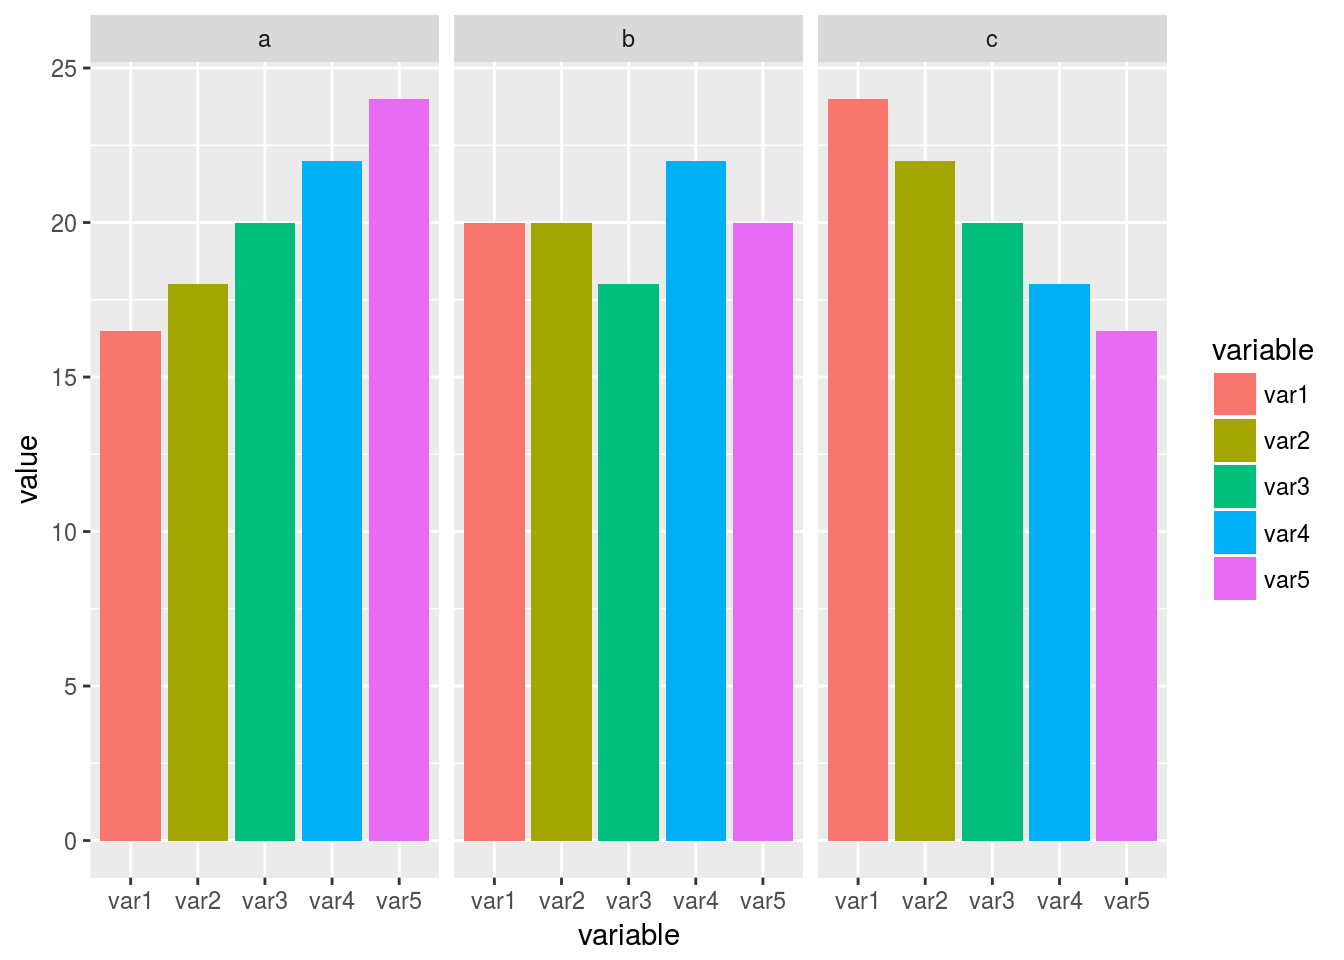
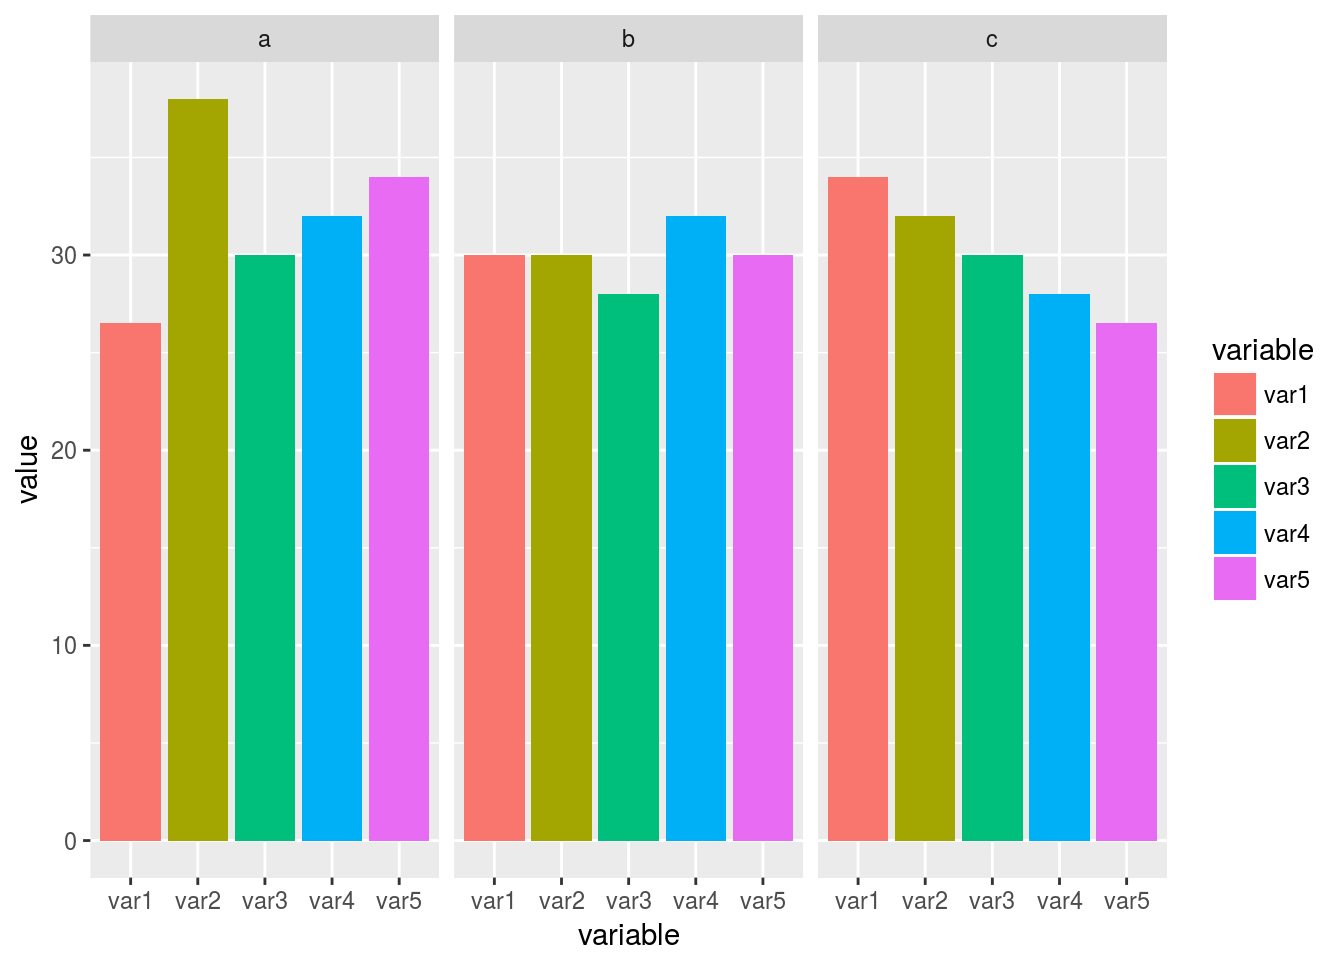
more on pie charts

diff --git a/_book/graphs.html b/_book/graphs.html
@@ -105,6 +105,7 @@ code > span.in { color: #60a0b0; font-weight: bold; font-style: italic; } /* Inf
 <li class="divider"></li>
 <li class="chapter" data-level="" data-path="index.html"><a href="index.html"><i class="fa fa-check"></i>Preface</a><ul>
 <li class="chapter" data-level="" data-path="index.html"><a href="index.html#what-is-r"><i class="fa fa-check"></i>What is R?</a></li>
+<li><a href="index.html#why-modern-r">Why <em>modern</em> R?</a></li>
 <li class="chapter" data-level="" data-path="index.html"><a href="index.html#what-is-rstudio"><i class="fa fa-check"></i>What is Rstudio?</a></li>
 <li class="chapter" data-level="" data-path="index.html"><a href="index.html#prerequisites"><i class="fa fa-check"></i>Prerequisites</a></li>
 <li class="chapter" data-level="" data-path="index.html"><a href="index.html#what-are-packages"><i class="fa fa-check"></i>What are packages?</a><ul>
@@ -312,9 +313,9 @@ unemp_lux_data <span class="op">%&gt;%</span>
 <p>I am not a huge fan of pie charts, but sometimes this is what you have to do. So let’s see how you can create pie charts. First, let’s create a mock dataset with the function <code>tibble::tribble()</code> which allows you to create a dataset line by line:</p>
 <div class="sourceCode"><pre class="sourceCode r"><code class="sourceCode r">test_data &lt;-<span class="st"> </span><span class="kw">tribble</span>(
   <span class="op">~</span>id, <span class="op">~</span>var1, <span class="op">~</span>var2,  <span class="op">~</span>var3, <span class="op">~</span>var4, <span class="op">~</span>var5,
-  <span class="st">&quot;a&quot;</span>, <span class="fl">16.5</span>, <span class="dv">18</span>, <span class="dv">20</span>, <span class="dv">22</span>, <span class="dv">24</span>,
-  <span class="st">&quot;b&quot;</span>, <span class="dv">20</span>, <span class="dv">20</span>, <span class="dv">18</span>, <span class="dv">22</span>, <span class="dv">20</span>,
-  <span class="st">&quot;c&quot;</span>, <span class="dv">24</span>, <span class="dv">22</span>, <span class="dv">20</span>, <span class="dv">18</span>, <span class="fl">16.5</span>
+  <span class="st">&quot;a&quot;</span>, <span class="fl">26.5</span>, <span class="dv">38</span>, <span class="dv">30</span>, <span class="dv">32</span>, <span class="dv">34</span>,
+  <span class="st">&quot;b&quot;</span>, <span class="dv">30</span>, <span class="dv">30</span>, <span class="dv">28</span>, <span class="dv">32</span>, <span class="dv">30</span>,
+  <span class="st">&quot;c&quot;</span>, <span class="dv">34</span>, <span class="dv">32</span>, <span class="dv">30</span>, <span class="dv">28</span>, <span class="fl">26.5</span>
 )</code></pre></div>
 <p>This data is not in the right format though, which is wide. We need to have it in the long format for it to work with <code>ggplot2</code>. For this, let’s use <code>tidyr::gather()</code> as seen in the previous chapter:</p>
 <div class="sourceCode"><pre class="sourceCode r"><code class="sourceCode r">test_data_long =<span class="st"> </span>test_data <span class="op">%&gt;%</span>
@@ -325,15 +326,57 @@ unemp_lux_data <span class="op">%&gt;%</span>
 <span class="st">  </span><span class="kw">geom_bar</span>(<span class="kw">aes</span>(variable, value, <span class="dt">fill =</span> variable), <span class="dt">stat =</span> <span class="st">&quot;identity&quot;</span>)</code></pre></div>
 <p><img src="modern_r_for_statec_files/figure-html/unnamed-chunk-121-1.png" width="672" /></p>
 <p>In the code above, I introduce a new option, called <code>stat = &quot;identity&quot;</code>. By default, <code>geom_bar()</code> counts the number of observations of each category that is plotted, which is a statistical transformation. By adding <code>stat = &quot;identity&quot;</code>, I force the statistical transformation to be the identity function, and thus plot the data as is.</p>
-<p>To create the pie chart, it is enough to add the option <code>coord_polar()</code> at the end of the code: this is because a pie chart can be seen as a barplot living in a world with polar coordinates:</p>
+<p>To create the pie chart, first we need to compute the share of each <code>id</code> to <code>var1</code>, <code>var2</code>, etc…</p>
+<p>To do this, we first group by <code>id</code>, then compute the total. Then we use a new function <code>ungroup()</code>. After using <code>ungroup()</code> all the computations are done on the whole dataset instead of by group, which is what we need to compute the share:</p>
+<div class="sourceCode"><pre class="sourceCode r"><code class="sourceCode r">test_data_long =<span class="st"> </span>test_data_long <span class="op">%&gt;%</span>
+<span class="st">  </span><span class="kw">group_by</span>(id) <span class="op">%&gt;%</span>
+<span class="st">  </span><span class="kw">mutate</span>(<span class="dt">total =</span> <span class="kw">sum</span>(value)) <span class="op">%&gt;%</span>
+<span class="st">  </span><span class="kw">ungroup</span>() <span class="op">%&gt;%</span>
+<span class="st">  </span><span class="kw">mutate</span>(<span class="dt">share =</span> value<span class="op">/</span>total)</code></pre></div>
+<p>Let’s take a look to see if this is what we wanted:</p>
+<div class="sourceCode"><pre class="sourceCode r"><code class="sourceCode r"><span class="kw">print</span>(test_data_long)</code></pre></div>
+<pre><code>## # A tibble: 15 x 5
+##       id variable value total     share
+##    &lt;chr&gt;    &lt;chr&gt; &lt;dbl&gt; &lt;dbl&gt;     &lt;dbl&gt;
+##  1     a     var1  26.5 160.5 0.1651090
+##  2     b     var1  30.0 150.0 0.2000000
+##  3     c     var1  34.0 150.5 0.2259136
+##  4     a     var2  38.0 160.5 0.2367601
+##  5     b     var2  30.0 150.0 0.2000000
+##  6     c     var2  32.0 150.5 0.2126246
+##  7     a     var3  30.0 160.5 0.1869159
+##  8     b     var3  28.0 150.0 0.1866667
+##  9     c     var3  30.0 150.5 0.1993355
+## 10     a     var4  32.0 160.5 0.1993769
+## 11     b     var4  32.0 150.0 0.2133333
+## 12     c     var4  28.0 150.5 0.1860465
+## 13     a     var5  34.0 160.5 0.2118380
+## 14     b     var5  30.0 150.0 0.2000000
+## 15     c     var5  26.5 150.5 0.1760797</code></pre>
+<p>If you didn’t understand what <code>ungroup()</code> did, rerun the last few lines with it and inspect the output.</p>
+<p>To plot the pie chart, we create a barplot again, but specify polar coordinates:</p>
 <div class="sourceCode"><pre class="sourceCode r"><code class="sourceCode r"><span class="kw">ggplot</span>(test_data_long) <span class="op">+</span>
 <span class="st">  </span><span class="kw">facet_wrap</span>(<span class="op">~</span>id) <span class="op">+</span>
-<span class="st">  </span><span class="kw">geom_bar</span>(<span class="kw">aes</span>(variable, value, <span class="dt">fill =</span> variable), <span class="dt">stat =</span> <span class="st">&quot;identity&quot;</span>) <span class="op">+</span>
-<span class="st">  </span><span class="kw">coord_polar</span>()</code></pre></div>
-<p><img src="modern_r_for_statec_files/figure-html/unnamed-chunk-122-1.png" width="672" /></p>
+<span class="st">  </span><span class="kw">geom_bar</span>(<span class="kw">aes</span>(<span class="dt">y =</span> share, <span class="dt">x =</span> <span class="st">&quot;&quot;</span>, <span class="dt">fill =</span> variable), <span class="dt">stat =</span> <span class="st">&quot;identity&quot;</span>) <span class="op">+</span>
+<span class="st">  </span><span class="kw">theme</span>() <span class="op">+</span>
+<span class="st">  </span><span class="kw">coord_polar</span>(<span class="st">&quot;y&quot;</span>, <span class="dt">start =</span> <span class="dv">0</span>)</code></pre></div>
+<p><img src="modern_r_for_statec_files/figure-html/unnamed-chunk-124-1.png" width="672" /></p>
+<p>As you can see, this typical pie chart is not very easy to read; compared to the barplots above it is not easy to distinguish <code>a</code> from <code>b</code> from <code>c</code>. It is possible to amend the pie chart a bit to make it clearer, by specifying <code>variable</code> as the <code>x</code>:</p>
+<div class="sourceCode"><pre class="sourceCode r"><code class="sourceCode r"><span class="kw">ggplot</span>(test_data_long) <span class="op">+</span>
+<span class="st">  </span><span class="kw">facet_wrap</span>(<span class="op">~</span>id) <span class="op">+</span>
+<span class="st">  </span><span class="kw">geom_bar</span>(<span class="kw">aes</span>(<span class="dt">y =</span> share, <span class="dt">x =</span> variable, <span class="dt">fill =</span> variable), <span class="dt">stat =</span> <span class="st">&quot;identity&quot;</span>) <span class="op">+</span>
+<span class="st">  </span><span class="kw">theme</span>() <span class="op">+</span>
+<span class="st">  </span><span class="kw">coord_polar</span>(<span class="st">&quot;x&quot;</span>, <span class="dt">start =</span> <span class="dv">0</span>)</code></pre></div>
+<p><img src="modern_r_for_statec_files/figure-html/unnamed-chunk-125-1.png" width="672" /></p>
 </div>
 <div id="adding-text-to-plots" class="section level3">
 <h3><span class="header-section-number">6.2.6</span> Adding text to plots</h3>
+<p>Sometimes you might want to add some text to your plots. This is possible with <code>geom_text()</code>:</p>
+<div class="sourceCode"><pre class="sourceCode r"><code class="sourceCode r"><span class="kw">ggplot</span>(test_data_long) <span class="op">+</span>
+<span class="st">  </span><span class="kw">facet_wrap</span>(<span class="op">~</span>id) <span class="op">+</span>
+<span class="st">  </span><span class="kw">geom_bar</span>(<span class="kw">aes</span>(variable, value, <span class="dt">fill =</span> variable), <span class="dt">stat =</span> <span class="st">&quot;identity&quot;</span>) <span class="op">+</span>
+<span class="st">  </span><span class="kw">geom_text</span>(<span class="kw">aes</span>(variable, value <span class="op">+</span><span class="st"> </span><span class="fl">1.5</span>, <span class="dt">label =</span> value))</code></pre></div>
+<p><img src="modern_r_for_statec_files/figure-html/unnamed-chunk-126-1.png" width="672" /></p>
 </div>
 <div id="customization" class="section level3">
 <h3><span class="header-section-number">6.2.7</span> Customization</h3>
@@ -344,7 +387,7 @@ unemp_lux_data <span class="op">%&gt;%</span>
 <span class="st">  </span><span class="kw">theme</span>(<span class="dt">legend.position =</span> <span class="st">&quot;bottom&quot;</span>) <span class="op">+</span>
 <span class="st">  </span><span class="kw">labs</span>(<span class="dt">title=</span><span class="st">&quot;Unemployment in Luxembourg, Esch/Alzette and Wiltz&quot;</span>, <span class="dt">x=</span><span class="st">&quot;Year&quot;</span>, <span class="dt">y =</span> <span class="st">&quot;Rate&quot;</span>)<span class="op">+</span>
 <span class="st">  </span><span class="kw">geom_line</span>()</code></pre></div>
-<p><img src="modern_r_for_statec_files/figure-html/unnamed-chunk-123-1.png" width="672" /></p>
+<p><img src="modern_r_for_statec_files/figure-html/unnamed-chunk-127-1.png" width="672" /></p>
 <div class="sourceCode"><pre class="sourceCode r"><code class="sourceCode r">unemp_lux_data <span class="op">%&gt;%</span>
 <span class="st">  </span><span class="kw">filter</span>(division <span class="op">%in%</span><span class="st"> </span><span class="kw">c</span>(<span class="st">&quot;Luxembourg&quot;</span>, <span class="st">&quot;Esch-sur-Alzette&quot;</span>, <span class="st">&quot;Wiltz&quot;</span>)) <span class="op">%&gt;%</span>
 <span class="st">  </span><span class="kw">ggplot</span>(<span class="kw">aes</span>(year, unemployment_rate_in_percent, <span class="dt">group =</span> division, <span class="dt">color =</span> division)) <span class="op">+</span>
@@ -352,7 +395,7 @@ unemp_lux_data <span class="op">%&gt;%</span>
 <span class="st">    </span><span class="kw">theme</span>(<span class="dt">legend.position =</span> <span class="st">&quot;bottom&quot;</span>) <span class="op">+</span>
 <span class="st">  </span><span class="kw">labs</span>(<span class="dt">title=</span><span class="st">&quot;Unemployment in Luxembourg, Esch/Alzette and Wiltz&quot;</span>, <span class="dt">x=</span><span class="st">&quot;Year&quot;</span>, <span class="dt">y =</span> <span class="st">&quot;Rate&quot;</span>) <span class="op">+</span>
 <span class="st">  </span><span class="kw">geom_line</span>()</code></pre></div>
-<p><img src="modern_r_for_statec_files/figure-html/unnamed-chunk-124-1.png" width="672" /></p>
+<p><img src="modern_r_for_statec_files/figure-html/unnamed-chunk-128-1.png" width="672" /></p>
 <div class="sourceCode"><pre class="sourceCode r"><code class="sourceCode r">unemp_lux_data <span class="op">%&gt;%</span>
 <span class="st">  </span><span class="kw">filter</span>(division <span class="op">%in%</span><span class="st"> </span><span class="kw">c</span>(<span class="st">&quot;Luxembourg&quot;</span>, <span class="st">&quot;Esch-sur-Alzette&quot;</span>, <span class="st">&quot;Wiltz&quot;</span>)) <span class="op">%&gt;%</span>
 <span class="st">  </span><span class="kw">ggplot</span>(<span class="kw">aes</span>(year, unemployment_rate_in_percent, <span class="dt">group =</span> division, <span class="dt">color =</span> division)) <span class="op">+</span>
@@ -361,7 +404,7 @@ unemp_lux_data <span class="op">%&gt;%</span>
 <span class="st">  </span><span class="kw">theme</span>(<span class="dt">legend.position =</span> <span class="st">&quot;bottom&quot;</span>, <span class="dt">legend.title =</span> <span class="kw">element_blank</span>()) <span class="op">+</span>
 <span class="st">  </span><span class="kw">labs</span>(<span class="dt">title=</span><span class="st">&quot;Unemployment in Luxembourg, Esch/Alzette and Wiltz&quot;</span>, <span class="dt">x =</span> <span class="st">&quot;Year&quot;</span>, <span class="dt">y =</span> <span class="st">&quot;Rate&quot;</span>) <span class="op">+</span>
 <span class="st">  </span><span class="kw">geom_line</span>()</code></pre></div>
-<p><img src="modern_r_for_statec_files/figure-html/unnamed-chunk-125-1.png" width="672" /></p>
+<p><img src="modern_r_for_statec_files/figure-html/unnamed-chunk-129-1.png" width="672" /></p>
 
 </div>
 </div>

diff --git a/_book/index.html b/_book/index.html
@@ -105,6 +105,7 @@ code > span.in { color: #60a0b0; font-weight: bold; font-style: italic; } /* Inf
 <li class="divider"></li>
 <li class="chapter" data-level="" data-path="index.html"><a href="index.html"><i class="fa fa-check"></i>Preface</a><ul>
 <li class="chapter" data-level="" data-path="index.html"><a href="index.html#what-is-r"><i class="fa fa-check"></i>What is R?</a></li>
+<li><a href="index.html#why-modern-r">Why <em>modern</em> R?</a></li>
 <li class="chapter" data-level="" data-path="index.html"><a href="index.html#what-is-rstudio"><i class="fa fa-check"></i>What is Rstudio?</a></li>
 <li class="chapter" data-level="" data-path="index.html"><a href="index.html#prerequisites"><i class="fa fa-check"></i>Prerequisites</a></li>
 <li class="chapter" data-level="" data-path="index.html"><a href="index.html#what-are-packages"><i class="fa fa-check"></i>What are packages?</a><ul>
@@ -205,10 +206,13 @@ code > span.in { color: #60a0b0; font-weight: bold; font-style: italic; } /* Inf
 <h2>What is R?</h2>
 <p>Read R’s official answer to this question <a href="https://cran.r-project.org/doc/FAQ/R-FAQ.html#What-is-R_003f">here</a>. To make it short: R is multi-paradigm (procedural, imperative, object-oriented and functional)<a href="#fn1" class="footnoteRef" id="fnref1"><sup>1</sup></a> programming language that focuses on applications in <em>statistics</em>. By <em>statistics</em> I mean any field that uses statistics such as official statistics, economics, finance, data science, etc.</p>
 </div>
+<div id="why-modern-r" class="section level2 unnumbered">
+<h2>Why <em>modern</em> R?</h2>
+<p><em>Modern</em> R instead of just R because we are going to learn how to use modern packages and concepts, such as functional programming (which is quite an old concept actually, but one that came into fashion recently). R is derived from S, which is a programming language that has roots in FORTRAN and Scheme. If you learned R at university, you’ve probably learned to use it as you would have used FORTRAN; very long scripts where data are represented as matrices and where row-wise (or column-wise) operations are implemented with <code>for</code> loops. There’s nothing wrong with that, mind you, but it is a shame not to use R’s functional programming capabilities that it inherited from Scheme, because I believe that it makes writing code easier and more natural. Also, R evolved a lot in the recent years, in great part thanks to the work of <a href="http://hadley.nz/">Hadley Wickham</a> and his collection of packages known as the <code>tidyverse</code>. By using the packages from the <code>tidyverse</code> and R’s built-in functional programming capabilities, we can write code that is faster and easier to explain to colleagues, and also easier to maintain.</p>
+</div>
 <div id="what-is-rstudio" class="section level2 unnumbered">
 <h2>What is Rstudio?</h2>
-<p>Rstudio is a modern IDE that makes writing R code easier. The first thing we are going to learn is how to use it.</p>
-<p>R and Rstudio are both open source: this means that the source code is freely available on the internet and contributions by anyone are welcome and integrated; provided they are meaningful and useful.</p>
+<p>Rstudio is a modern IDE that makes writing R code easier. The first thing we are going to learn is how to use it. R and Rstudio are both open source: this means that the source code is freely available on the internet and contributions by anyone are welcome and integrated; provided they are meaningful and useful.</p>
 </div>
 <div id="prerequisites" class="section level2 unnumbered">
 <h2>Prerequisites</h2>

diff --git a/_book/data-manipulation-and-descriptive-statistics.html b/_book/data-manipulation-and-descriptive-statistics.html
@@ -105,6 +105,7 @@ code > span.in { color: #60a0b0; font-weight: bold; font-style: italic; } /* Inf
 <li class="divider"></li>
 <li class="chapter" data-level="" data-path="index.html"><a href="index.html"><i class="fa fa-check"></i>Preface</a><ul>
 <li class="chapter" data-level="" data-path="index.html"><a href="index.html#what-is-r"><i class="fa fa-check"></i>What is R?</a></li>
+<li><a href="index.html#why-modern-r">Why <em>modern</em> R?</a></li>
 <li class="chapter" data-level="" data-path="index.html"><a href="index.html#what-is-rstudio"><i class="fa fa-check"></i>What is Rstudio?</a></li>
 <li class="chapter" data-level="" data-path="index.html"><a href="index.html#prerequisites"><i class="fa fa-check"></i>Prerequisites</a></li>
 <li class="chapter" data-level="" data-path="index.html"><a href="index.html#what-are-packages"><i class="fa fa-check"></i>What are packages?</a><ul>

diff --git a/_book/data-types-and-objects.html b/_book/data-types-and-objects.html
@@ -105,6 +105,7 @@ code > span.in { color: #60a0b0; font-weight: bold; font-style: italic; } /* Inf
 <li class="divider"></li>
 <li class="chapter" data-level="" data-path="index.html"><a href="index.html"><i class="fa fa-check"></i>Preface</a><ul>
 <li class="chapter" data-level="" data-path="index.html"><a href="index.html#what-is-r"><i class="fa fa-check"></i>What is R?</a></li>
+<li><a href="index.html#why-modern-r">Why <em>modern</em> R?</a></li>
 <li class="chapter" data-level="" data-path="index.html"><a href="index.html#what-is-rstudio"><i class="fa fa-check"></i>What is Rstudio?</a></li>
 <li class="chapter" data-level="" data-path="index.html"><a href="index.html#prerequisites"><i class="fa fa-check"></i>Prerequisites</a></li>
 <li class="chapter" data-level="" data-path="index.html"><a href="index.html#what-are-packages"><i class="fa fa-check"></i>What are packages?</a><ul>

diff --git a/_book/getting-to-know-rstudio.html b/_book/getting-to-know-rstudio.html
@@ -105,6 +105,7 @@ code > span.in { color: #60a0b0; font-weight: bold; font-style: italic; } /* Inf
 <li class="divider"></li>
 <li class="chapter" data-level="" data-path="index.html"><a href="index.html"><i class="fa fa-check"></i>Preface</a><ul>
 <li class="chapter" data-level="" data-path="index.html"><a href="index.html#what-is-r"><i class="fa fa-check"></i>What is R?</a></li>
+<li><a href="index.html#why-modern-r">Why <em>modern</em> R?</a></li>
 <li class="chapter" data-level="" data-path="index.html"><a href="index.html#what-is-rstudio"><i class="fa fa-check"></i>What is Rstudio?</a></li>
 <li class="chapter" data-level="" data-path="index.html"><a href="index.html#prerequisites"><i class="fa fa-check"></i>Prerequisites</a></li>
 <li class="chapter" data-level="" data-path="index.html"><a href="index.html#what-are-packages"><i class="fa fa-check"></i>What are packages?</a><ul>

diff --git a/_book/packages.html b/_book/packages.html
@@ -105,6 +105,7 @@ code > span.in { color: #60a0b0; font-weight: bold; font-style: italic; } /* Inf
 <li class="divider"></li>
 <li class="chapter" data-level="" data-path="index.html"><a href="index.html"><i class="fa fa-check"></i>Preface</a><ul>
 <li class="chapter" data-level="" data-path="index.html"><a href="index.html#what-is-r"><i class="fa fa-check"></i>What is R?</a></li>
+<li><a href="index.html#why-modern-r">Why <em>modern</em> R?</a></li>
 <li class="chapter" data-level="" data-path="index.html"><a href="index.html#what-is-rstudio"><i class="fa fa-check"></i>What is Rstudio?</a></li>
 <li class="chapter" data-level="" data-path="index.html"><a href="index.html#prerequisites"><i class="fa fa-check"></i>Prerequisites</a></li>
 <li class="chapter" data-level="" data-path="index.html"><a href="index.html#what-are-packages"><i class="fa fa-check"></i>What are packages?</a><ul>

diff --git a/_book/programming-with-r.html b/_book/programming-with-r.html
@@ -105,6 +105,7 @@ code > span.in { color: #60a0b0; font-weight: bold; font-style: italic; } /* Inf
 <li class="divider"></li>
 <li class="chapter" data-level="" data-path="index.html"><a href="index.html"><i class="fa fa-check"></i>Preface</a><ul>
 <li class="chapter" data-level="" data-path="index.html"><a href="index.html#what-is-r"><i class="fa fa-check"></i>What is R?</a></li>
+<li><a href="index.html#why-modern-r">Why <em>modern</em> R?</a></li>
 <li class="chapter" data-level="" data-path="index.html"><a href="index.html#what-is-rstudio"><i class="fa fa-check"></i>What is Rstudio?</a></li>
 <li class="chapter" data-level="" data-path="index.html"><a href="index.html#prerequisites"><i class="fa fa-check"></i>Prerequisites</a></li>
 <li class="chapter" data-level="" data-path="index.html"><a href="index.html#what-are-packages"><i class="fa fa-check"></i>What are packages?</a><ul>

diff --git a/_book/reading-and-writing-data-with-rio.html b/_book/reading-and-writing-data-with-rio.html
@@ -105,6 +105,7 @@ code > span.in { color: #60a0b0; font-weight: bold; font-style: italic; } /* Inf
 <li class="divider"></li>
 <li class="chapter" data-level="" data-path="index.html"><a href="index.html"><i class="fa fa-check"></i>Preface</a><ul>
 <li class="chapter" data-level="" data-path="index.html"><a href="index.html#what-is-r"><i class="fa fa-check"></i>What is R?</a></li>
+<li><a href="index.html#why-modern-r">Why <em>modern</em> R?</a></li>
 <li class="chapter" data-level="" data-path="index.html"><a href="index.html#what-is-rstudio"><i class="fa fa-check"></i>What is Rstudio?</a></li>
 <li class="chapter" data-level="" data-path="index.html"><a href="index.html#prerequisites"><i class="fa fa-check"></i>Prerequisites</a></li>
 <li class="chapter" data-level="" data-path="index.html"><a href="index.html#what-are-packages"><i class="fa fa-check"></i>What are packages?</a><ul>

diff --git a/_book/references.html b/_book/references.html
@@ -105,6 +105,7 @@ code > span.in { color: #60a0b0; font-weight: bold; font-style: italic; } /* Inf
 <li class="divider"></li>
 <li class="chapter" data-level="" data-path="index.html"><a href="index.html"><i class="fa fa-check"></i>Preface</a><ul>
 <li class="chapter" data-level="" data-path="index.html"><a href="index.html#what-is-r"><i class="fa fa-check"></i>What is R?</a></li>
+<li><a href="index.html#why-modern-r">Why <em>modern</em> R?</a></li>
 <li class="chapter" data-level="" data-path="index.html"><a href="index.html#what-is-rstudio"><i class="fa fa-check"></i>What is Rstudio?</a></li>
 <li class="chapter" data-level="" data-path="index.html"><a href="index.html#prerequisites"><i class="fa fa-check"></i>Prerequisites</a></li>
 <li class="chapter" data-level="" data-path="index.html"><a href="index.html#what-are-packages"><i class="fa fa-check"></i>What are packages?</a><ul>

diff --git a/_book/statistical-models.html b/_book/statistical-models.html
@@ -105,6 +105,7 @@ code > span.in { color: #60a0b0; font-weight: bold; font-style: italic; } /* Inf
 <li class="divider"></li>
 <li class="chapter" data-level="" data-path="index.html"><a href="index.html"><i class="fa fa-check"></i>Preface</a><ul>
 <li class="chapter" data-level="" data-path="index.html"><a href="index.html#what-is-r"><i class="fa fa-check"></i>What is R?</a></li>
+<li><a href="index.html#why-modern-r">Why <em>modern</em> R?</a></li>
 <li class="chapter" data-level="" data-path="index.html"><a href="index.html#what-is-rstudio"><i class="fa fa-check"></i>What is Rstudio?</a></li>
 <li class="chapter" data-level="" data-path="index.html"><a href="index.html#prerequisites"><i class="fa fa-check"></i>Prerequisites</a></li>
 <li class="chapter" data-level="" data-path="index.html"><a href="index.html#what-are-packages"><i class="fa fa-check"></i>What are packages?</a><ul>
